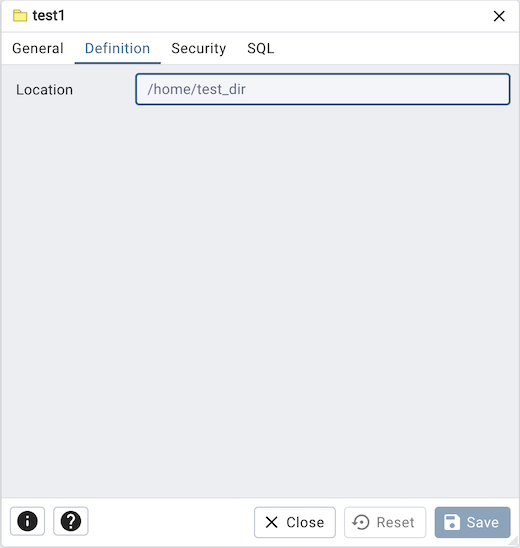
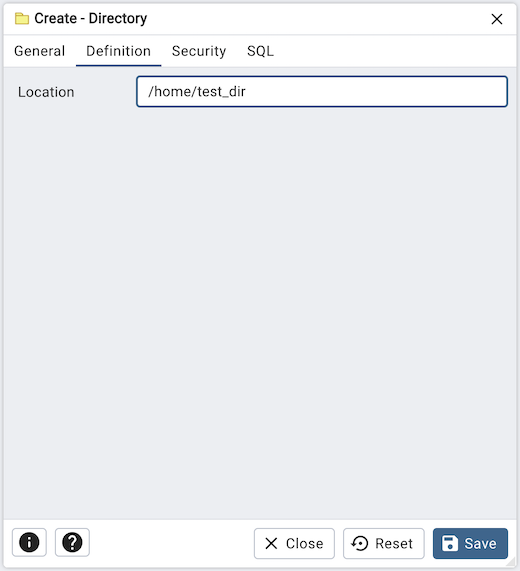
Fixed directory owner update & UI issues. #8034

Changed region(s): [[0.0, 0.0, 1.0, 1.0], [0.0308, 0.1551, 0.1538, 0.1861]]

diff --git a/web/pgadmin/browser/server_groups/servers/directories/static/js/directory.ui.js b/web/pgadmin/browser/server_groups/servers/directories/static/js/directory.ui.js
@@ -14,8 +14,8 @@ import { isEmptyString } from '../../../../../../static/js/validators';
 export default class DirectorySchema extends BaseUISchema {
   constructor(getPrivilegeRoleSchema, treeNodeInfo, fieldOptions={}, initValues={}) {
     super({
+      diruser: undefined,
       name: undefined,
-      owner: undefined,
       path: undefined,
       diracl: [],
       ...initValues,

diff --git a/web/pgadmin/browser/server_groups/servers/directories/__init__.py b/web/pgadmin/browser/server_groups/servers/directories/__init__.py
@@ -316,26 +316,9 @@ class DirectoryView(PGChildNodeView):
                 "/".join([self.template_path, self._ALTER_SQL]),
                 data=data, conn=self.conn
             )
-
-            # Checking if we are not executing empty query
-            if SQL and SQL.strip('\n') and SQL.strip(' '):
-                status, res = self.conn.execute_scalar(SQL)
-                if not status:
-                    return jsonify(
-                        node=self.blueprint.generate_browser_node(
-                            dr_id,
-                            sid,
-                            data['name'],
-                            icon="icon-directory"
-                        ),
-                        success=0,
-                        errormsg=gettext(
-                            'Directory created successfully.'
-                        ),
-                        info=gettext(
-                            res
-                        )
-                    )
+            status, res = self.conn.execute_scalar(SQL)
+            if not status:
+                return internal_server_error(errormsg=res)
 
             return jsonify(
                 node=self.blueprint.generate_browser_node(

diff --git a/docs/en_US/directory_dialog.rst b/docs/en_US/directory_dialog.rst
@@ -4,7 +4,7 @@
 `Directory Dialog`:index:
 *************************
 
-Use the Directory dialog to Create an alias for a file system directory path.
+Use the Directory dialog to create an alias for a file system directory path.
 To create directories, you must have the CREATE ANY DIRECTORY system privilege.
 When you create a directory, you are automatically granted READ and WRITE privileges
 on the directory, and you can grant READ and WRITE privileges to other users and roles.
